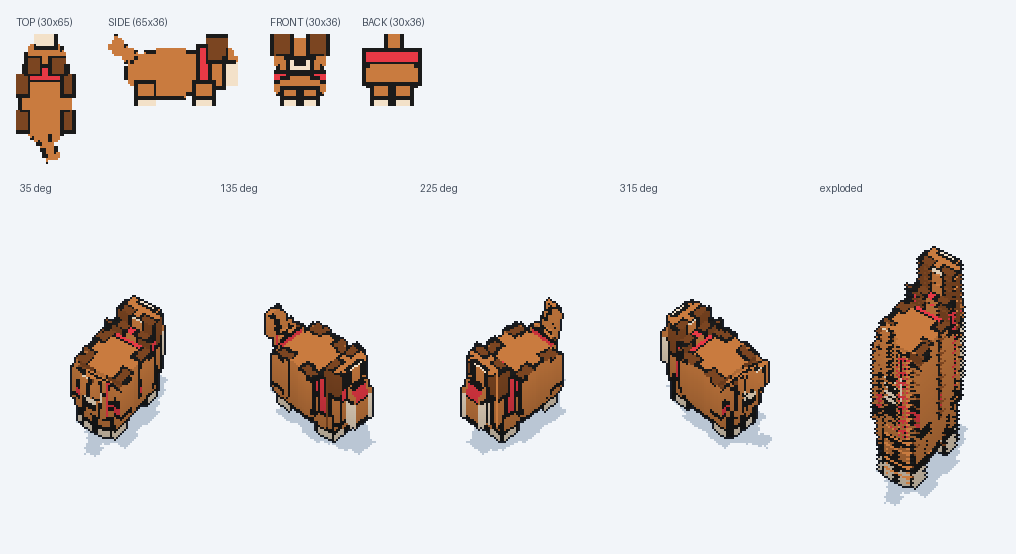
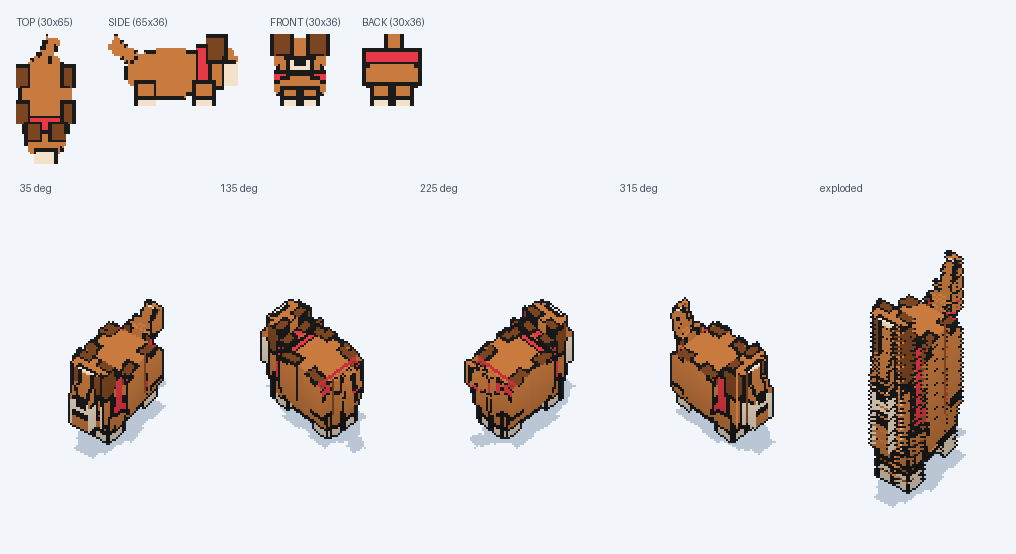
Refresh viewer template UI and regenerate dancing-dog example
- Add top-right LinkedIn and GitHub links to the viewer header.
- Derive scan position from the view angle instead of a separate timer.
- Clamp the squash floor and compute pitch from squash so tall stacks stay in frame.
- Add cursor-anchored wheel zoom and reset pan when a new stack loads.
- Regenerate examples/dancing-dog slices.png, check.png and viewer.html
  from sheet.png (36 slices, 30x65).

diff --git a/examples/dancing-dog/viewer.html b/examples/dancing-dog/viewer.html
@@ -12,6 +12,9 @@ main{max-width:880px;margin:0 auto}
 header{display:flex;align-items:baseline;justify-content:space-between;gap:12px;flex-wrap:wrap;margin-bottom:12px}
 h1{font-size:17px;font-weight:600;margin:0;letter-spacing:.01em}
 #meta{font:12px/1.4 ui-monospace,SFMono-Regular,Menlo,monospace;color:#6b7480}
+.links{display:flex;gap:12px;white-space:nowrap;margin-left:auto}
+.links a{font-size:12px;color:#4a7f8c;text-decoration:none}
+.links a:hover{text-decoration:underline}
 .stage{display:flex;justify-content:center;overflow:auto;border:1px solid #d7dbe0;border-radius:10px;background:#f7f8f9;padding:8px;transition:background .2s}
 canvas{display:block;image-rendering:crisp-edges;image-rendering:pixelated;touch-action:none;cursor:grab;border-radius:4px}
 canvas.dragging{cursor:grabbing}
@@ -35,6 +38,7 @@ footer{font-size:11px;color:#8b939e;margin-top:8px;line-height:1.5}
 <header>
   <h1 id="title">walsy-3d Turntable</h1>
   <div id="meta">loading…</div>
+  <div class="links"><a href="https://www.linkedin.com/in/kerem-urhan-225870436/" target="_blank" rel="noopener">my linkedin</a><a href="https://github.com/walsykerem/walsy-3d" target="_blank" rel="noopener">github star me</a></div>
 </header>
 <div class="stage" id="stage"><canvas id="view" width="320" height="320" role="img" aria-label="View mode"></canvas></div>
 <div id="readout">loading…</div>
@@ -72,16 +76,17 @@ footer{font-size:11px;color:#8b939e;margin-top:8px;line-height:1.5}
 <footer id="hint">drag to rotate · shift+drag for sun · vertical drag squashes · Space pause · W/A/S/D nudge</footer>
 </main>
 <script>
[2 lines of base64/hex data omitted]
 const DEG = Math.PI / 180;
-const ELEV = 0.3;
+const MIN_SQ = 0.45, MAX_SINP = Math.sqrt(1 - MIN_SQ * MIN_SQ);
+const sinPitch = () => Math.sqrt(Math.max(0, 1 - state.squash * state.squash));
 const clampN = (v, a, b) => v < a ? a : v > b ? b : v;
 const DEFAULTS = {
   angle: 35, squash: 0.75, spacing: 1, scale: 6, slices: 0, // 0 = embedded strip's slice count
   playing: true, time: 40, sun: 315, light: true, shadow: true, outline: true,
   mode: 'stack'
 };
-const state = { ...DEFAULTS, scan: 0, dirty: true, lastMs: 0 };
+const state = { ...DEFAULTS, dirty: true, lastMs: 0 };
 const ids = ['title','meta','readout','play','restart','angle','angleOut','squash','squashOut','spacing','spacingOut','scale','scaleOut','slices','time','timeOut','sun','sunOut','chkLight','chkShadow','chkOutline','mode','file','export','stage','view'];
 const els = {};
 for (const id of ids) els[id] = document.getElementById(id);
@@ -91,6 +96,7 @@ let payloadSlices = 0, sliceW = 0, sliceH = 0, sheetData = null, sheetW = 0;
 let frontPx = null, backPx = null, vol = null, defaultSheet = null;
 let art = null, artCtx = null, artData = null, artW = 0, artH = 0;
 let solid = null, glow = { r: null, g: null, b: null };
+let panX = 0, panY = 0;
 const sil = { front: 0, back: 0 };
 
 const ENVS = [
@@ -236,7 +242,7 @@ function layout(){
     mx = Math.max(mx, halfW * c + (vol.n - 1) * S * s * 0.5);
   }
   const maxHalfW = mx + 6;
-  const maxHalfH = halfH + (vol.n - 1) * S * ELEV * 0.5 + 8;
+  const maxHalfH = halfH + halfW * MAX_SINP + (vol.n - 1) * S * MAX_SINP * 0.5 + 8;
   artW = Math.ceil(maxHalfW * 2) + 4;
   artH = Math.ceil(maxHalfH * 2) + 4;
   art = document.createElement('canvas');
@@ -362,7 +368,7 @@ function paintGhost(px, img, ca, sa, alpha, offsetY){
   const w = img.width, h = img.height, cx = w / 2, cy = h / 2;
   const a = ca >= 0 ? Math.max(ca, 0.13) : Math.min(ca, -0.13);
   const invA = 1 / a, invSq = 1 / state.squash;
-  const ox = artW / 2, b = sa * ELEV;
+  const ox = artW / 2, b = sa * sinPitch();
   const base = alpha / 255;
   let x0 = 1e9, x1 = -1e9, y0 = 1e9, y1 = -1e9;
   for (let c = 0; c < 4; c++){
@@ -394,14 +400,18 @@ function paintGhost(px, img, ca, sa, alpha, offsetY){
   }
 }
 
+function scanIndex(n){
+  return Math.floor((((state.angle % 360) + 360) % 360) * n / 360) % n;
+}
+
 function visibleSlices(){
   const n = vol.n, out = [];
   if (state.mode === 'scan'){
     const half = Math.min(5, Math.max(1, Math.floor(n / 4)));
-    const idx = ((Math.round(state.scan) % n) + n) % n;
+    const idx = scanIndex(n);
     for (let z = idx - half; z <= idx + half; z++) if (z >= 0 && z < n) out.push({ z: z, d: z });
-    const mid = (n - 1) * 0.5;
-    out.sort((p, q) => (p.z - mid) - (q.z - mid));
+    const c = Math.cos(state.angle * DEG);
+    out.sort((p, q) => c >= 0 ? p.z - q.z : q.z - p.z);
   } else {
     for (let z = 0; z < n; z++) out.push({ z: z, d: z });
     const c = Math.cos(state.angle * DEG);
@@ -417,9 +427,9 @@ function drawSlice(px, z, ca, sa, env, L, S){
   const a = ca >= 0 ? Math.max(ca, 0.13) : Math.min(ca, -0.13);
   const invA = 1 / a;
   const ox = artW / 2 + off * sa;
-  const oy = artH / 2 + off * ca * ELEV;
+  const oy = artH / 2 - off * ca * sinPitch();
   const sq = state.squash, invSq = 1 / sq;
-  const b = sa * ELEV;
+  const b = sa * sinPitch();
   const minX = vol.minX[z], maxX = vol.maxX[z], minY = vol.minY[z], maxY = vol.maxY[z];
   if (maxX < 0) return;
   let x0 = 1e9, x1 = -1e9, y0 = 1e9, y1 = -1e9;
@@ -522,7 +532,7 @@ function updateReadout(env){
   const a = ((Math.round(state.angle) % 360) + 360) % 360;
   let s = a + '°';
   if (state.mode === 'scan'){
-    s += ' · slice ' + (((Math.round(state.scan) % vol.n) + vol.n) % vol.n) + '/' + (vol.n - 1) +
+    s += ' · slice ' + scanIndex(vol.n) + '/' + (vol.n - 1) +
       ' · front ' + sil.front + '% · back ' + sil.back + '%';
   } else if (state.mode === 'explode'){
     s += ' · gap ' + spread().toFixed(2) + ' · ' + vol.n + ' slices';
@@ -592,10 +602,6 @@ function walsyTick(now){
     if (keys.right) state.angle = (state.angle + 90 * dt) % 360;
     moved = true;
   }
-  if (state.mode === 'scan' && vol){
-    state.scan = (state.scan + dt * 11) % Math.max(1, vol.n);
-    moved = true;
-  }
   if (moved) state.dirty = true;
   if (state.dirty){
     walsyDrawFrame();
@@ -643,7 +649,9 @@ function restart(){
     backPx = defaultSheet.back;
     els.file.value = '';
   }
-  Object.assign(state, DEFAULTS, { slices: payloadSlices, scan: 0 });
+  Object.assign(state, DEFAULTS, { slices: payloadSlices });
+  panX = panY = 0;
+  view.style.transform = '';
   keys.up = keys.down = keys.left = keys.right = false;
   lastT = 0;
   stopDrag();
@@ -667,6 +675,22 @@ els.scale.addEventListener('input', () => {
   els.scaleOut.textContent = state.scale + 'x';
   resize();
 });
+els.stage.addEventListener('wheel', (e) => {
+  e.preventDefault();
+  const before = state.scale;
+  const after = clampN(before + (e.deltaY < 0 ? 1 : -1), 2, 14);
+  if (after === before) return;
+  const r = view.getBoundingClientRect();
+  const ax = (e.clientX - r.left) / before, ay = (e.clientY - r.top) / before;
+  state.scale = after;
+  resize();
+  const r2 = view.getBoundingClientRect();
+  panX += e.clientX - (r2.left + ax * after);
+  panY += e.clientY - (r2.top + ay * after);
+  view.style.transform = 'translate(' + panX + 'px,' + panY + 'px)';
+  els.scale.value = String(after);
+  els.scaleOut.textContent = after + 'x';
+}, { passive: false });
 els.slices.addEventListener('change', () => {
   state.slices = clampN(parseInt(els.slices.value, 10) || payloadSlices, 1, 256);
   els.slices.value = String(state.slices);

diff --git a/rust/scripts-rs/src/viewer.html b/rust/scripts-rs/src/viewer.html
@@ -12,6 +12,9 @@ main{max-width:880px;margin:0 auto}
 header{display:flex;align-items:baseline;justify-content:space-between;gap:12px;flex-wrap:wrap;margin-bottom:12px}
 h1{font-size:17px;font-weight:600;margin:0;letter-spacing:.01em}
 #meta{font:12px/1.4 ui-monospace,SFMono-Regular,Menlo,monospace;color:#6b7480}
+.links{display:flex;gap:12px;white-space:nowrap;margin-left:auto}
+.links a{font-size:12px;color:#4a7f8c;text-decoration:none}
+.links a:hover{text-decoration:underline}
 .stage{display:flex;justify-content:center;overflow:auto;border:1px solid #d7dbe0;border-radius:10px;background:#f7f8f9;padding:8px;transition:background .2s}
 canvas{display:block;image-rendering:crisp-edges;image-rendering:pixelated;touch-action:none;cursor:grab;border-radius:4px}
 canvas.dragging{cursor:grabbing}
@@ -35,6 +38,7 @@ footer{font-size:11px;color:#8b939e;margin-top:8px;line-height:1.5}
 <header>
   <h1 id="title">walsy-3d Turntable</h1>
   <div id="meta">loading…</div>
+  <div class="links"><a href="https://www.linkedin.com/in/kerem-urhan-225870436/" target="_blank" rel="noopener">my linkedin</a><a href="https://github.com/walsykerem/walsy-3d" target="_blank" rel="noopener">github star me</a></div>
 </header>
 <div class="stage" id="stage"><canvas id="view" width="320" height="320" role="img" aria-label="View mode"></canvas></div>
 <div id="readout">loading…</div>
@@ -74,14 +78,15 @@ footer{font-size:11px;color:#8b939e;margin-top:8px;line-height:1.5}
 <script>
 const EMBEDDED = /*__EMBEDDED_STACK__*/null;
 const DEG = Math.PI / 180;
-const ELEV = 0.3;
+const MIN_SQ = 0.45, MAX_SINP = Math.sqrt(1 - MIN_SQ * MIN_SQ);
+const sinPitch = () => Math.sqrt(Math.max(0, 1 - state.squash * state.squash));
 const clampN = (v, a, b) => v < a ? a : v > b ? b : v;
 const DEFAULTS = {
   angle: 35, squash: 0.75, spacing: 1, scale: 6, slices: 0, // 0 = embedded strip's slice count
   playing: true, time: 40, sun: 315, light: true, shadow: true, outline: true,
   mode: 'stack'
 };
-const state = { ...DEFAULTS, scan: 0, dirty: true, lastMs: 0 };
+const state = { ...DEFAULTS, dirty: true, lastMs: 0 };
 const ids = ['title','meta','readout','play','restart','angle','angleOut','squash','squashOut','spacing','spacingOut','scale','scaleOut','slices','time','timeOut','sun','sunOut','chkLight','chkShadow','chkOutline','mode','file','export','stage','view'];
 const els = {};
 for (const id of ids) els[id] = document.getElementById(id);
@@ -91,6 +96,7 @@ let payloadSlices = 0, sliceW = 0, sliceH = 0, sheetData = null, sheetW = 0;
 let frontPx = null, backPx = null, vol = null, defaultSheet = null;
 let art = null, artCtx = null, artData = null, artW = 0, artH = 0;
 let solid = null, glow = { r: null, g: null, b: null };
+let panX = 0, panY = 0;
 const sil = { front: 0, back: 0 };
 
 const ENVS = [
@@ -236,7 +242,7 @@ function layout(){
     mx = Math.max(mx, halfW * c + (vol.n - 1) * S * s * 0.5);
   }
   const maxHalfW = mx + 6;
-  const maxHalfH = halfH + (vol.n - 1) * S * ELEV * 0.5 + 8;
+  const maxHalfH = halfH + halfW * MAX_SINP + (vol.n - 1) * S * MAX_SINP * 0.5 + 8;
   artW = Math.ceil(maxHalfW * 2) + 4;
   artH = Math.ceil(maxHalfH * 2) + 4;
   art = document.createElement('canvas');
@@ -362,7 +368,7 @@ function paintGhost(px, img, ca, sa, alpha, offsetY){
   const w = img.width, h = img.height, cx = w / 2, cy = h / 2;
   const a = ca >= 0 ? Math.max(ca, 0.13) : Math.min(ca, -0.13);
   const invA = 1 / a, invSq = 1 / state.squash;
-  const ox = artW / 2, b = sa * ELEV;
+  const ox = artW / 2, b = sa * sinPitch();
   const base = alpha / 255;
   let x0 = 1e9, x1 = -1e9, y0 = 1e9, y1 = -1e9;
   for (let c = 0; c < 4; c++){
@@ -394,14 +400,18 @@ function paintGhost(px, img, ca, sa, alpha, offsetY){
   }
 }
 
+function scanIndex(n){
+  return Math.floor((((state.angle % 360) + 360) % 360) * n / 360) % n;
+}
+
 function visibleSlices(){
   const n = vol.n, out = [];
   if (state.mode === 'scan'){
     const half = Math.min(5, Math.max(1, Math.floor(n / 4)));
-    const idx = ((Math.round(state.scan) % n) + n) % n;
+    const idx = scanIndex(n);
     for (let z = idx - half; z <= idx + half; z++) if (z >= 0 && z < n) out.push({ z: z, d: z });
-    const mid = (n - 1) * 0.5;
-    out.sort((p, q) => (p.z - mid) - (q.z - mid));
+    const c = Math.cos(state.angle * DEG);
+    out.sort((p, q) => c >= 0 ? p.z - q.z : q.z - p.z);
   } else {
     for (let z = 0; z < n; z++) out.push({ z: z, d: z });
     const c = Math.cos(state.angle * DEG);
@@ -417,9 +427,9 @@ function drawSlice(px, z, ca, sa, env, L, S){
   const a = ca >= 0 ? Math.max(ca, 0.13) : Math.min(ca, -0.13);
   const invA = 1 / a;
   const ox = artW / 2 + off * sa;
-  const oy = artH / 2 + off * ca * ELEV;
+  const oy = artH / 2 - off * ca * sinPitch();
   const sq = state.squash, invSq = 1 / sq;
-  const b = sa * ELEV;
+  const b = sa * sinPitch();
   const minX = vol.minX[z], maxX = vol.maxX[z], minY = vol.minY[z], maxY = vol.maxY[z];
   if (maxX < 0) return;
   let x0 = 1e9, x1 = -1e9, y0 = 1e9, y1 = -1e9;
@@ -522,7 +532,7 @@ function updateReadout(env){
   const a = ((Math.round(state.angle) % 360) + 360) % 360;
   let s = a + '°';
   if (state.mode === 'scan'){
-    s += ' · slice ' + (((Math.round(state.scan) % vol.n) + vol.n) % vol.n) + '/' + (vol.n - 1) +
+    s += ' · slice ' + scanIndex(vol.n) + '/' + (vol.n - 1) +
       ' · front ' + sil.front + '% · back ' + sil.back + '%';
   } else if (state.mode === 'explode'){
     s += ' · gap ' + spread().toFixed(2) + ' · ' + vol.n + ' slices';
@@ -592,10 +602,6 @@ function walsyTick(now){
     if (keys.right) state.angle = (state.angle + 90 * dt) % 360;
     moved = true;
   }
-  if (state.mode === 'scan' && vol){
-    state.scan = (state.scan + dt * 11) % Math.max(1, vol.n);
-    moved = true;
-  }
   if (moved) state.dirty = true;
   if (state.dirty){
     walsyDrawFrame();
@@ -643,7 +649,9 @@ function restart(){
     backPx = defaultSheet.back;
     els.file.value = '';
   }
-  Object.assign(state, DEFAULTS, { slices: payloadSlices, scan: 0 });
+  Object.assign(state, DEFAULTS, { slices: payloadSlices });
+  panX = panY = 0;
+  view.style.transform = '';
   keys.up = keys.down = keys.left = keys.right = false;
   lastT = 0;
   stopDrag();
@@ -667,6 +675,22 @@ els.scale.addEventListener('input', () => {
   els.scaleOut.textContent = state.scale + 'x';
   resize();
 });
+els.stage.addEventListener('wheel', (e) => {
+  e.preventDefault();
+  const before = state.scale;
+  const after = clampN(before + (e.deltaY < 0 ? 1 : -1), 2, 14);
+  if (after === before) return;
+  const r = view.getBoundingClientRect();
+  const ax = (e.clientX - r.left) / before, ay = (e.clientY - r.top) / before;
+  state.scale = after;
+  resize();
+  const r2 = view.getBoundingClientRect();
+  panX += e.clientX - (r2.left + ax * after);
+  panY += e.clientY - (r2.top + ay * after);
+  view.style.transform = 'translate(' + panX + 'px,' + panY + 'px)';
+  els.scale.value = String(after);
+  els.scaleOut.textContent = after + 'x';
+}, { passive: false });
 els.slices.addEventListener('change', () => {
   state.slices = clampN(parseInt(els.slices.value, 10) || payloadSlices, 1, 256);
   els.slices.value = String(state.slices);
